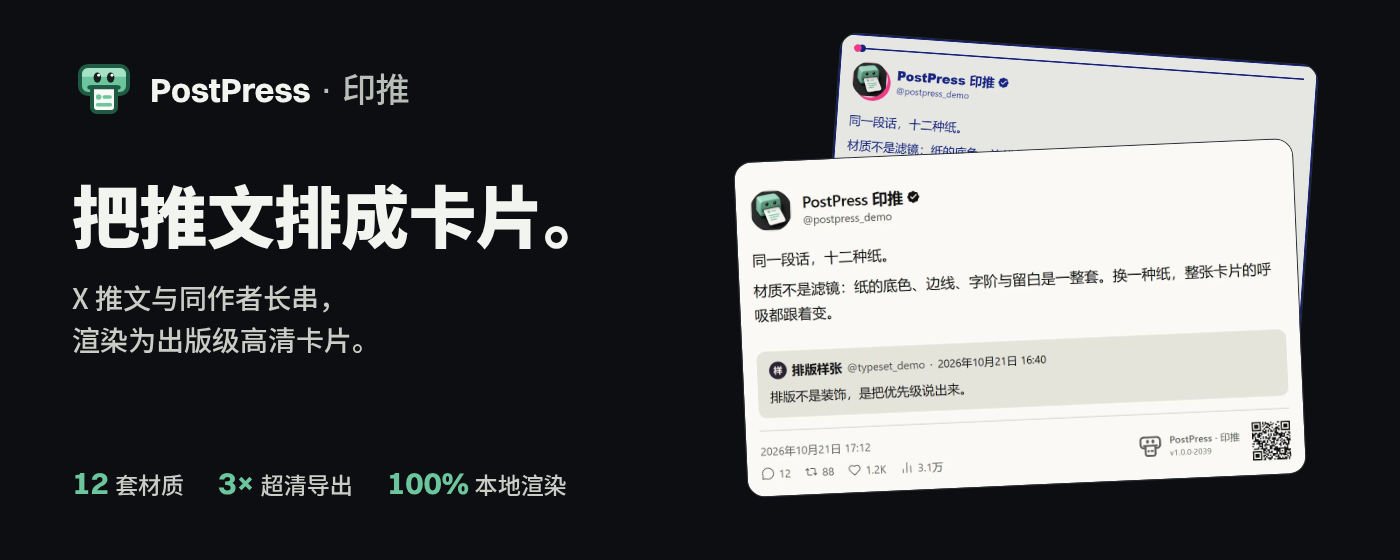
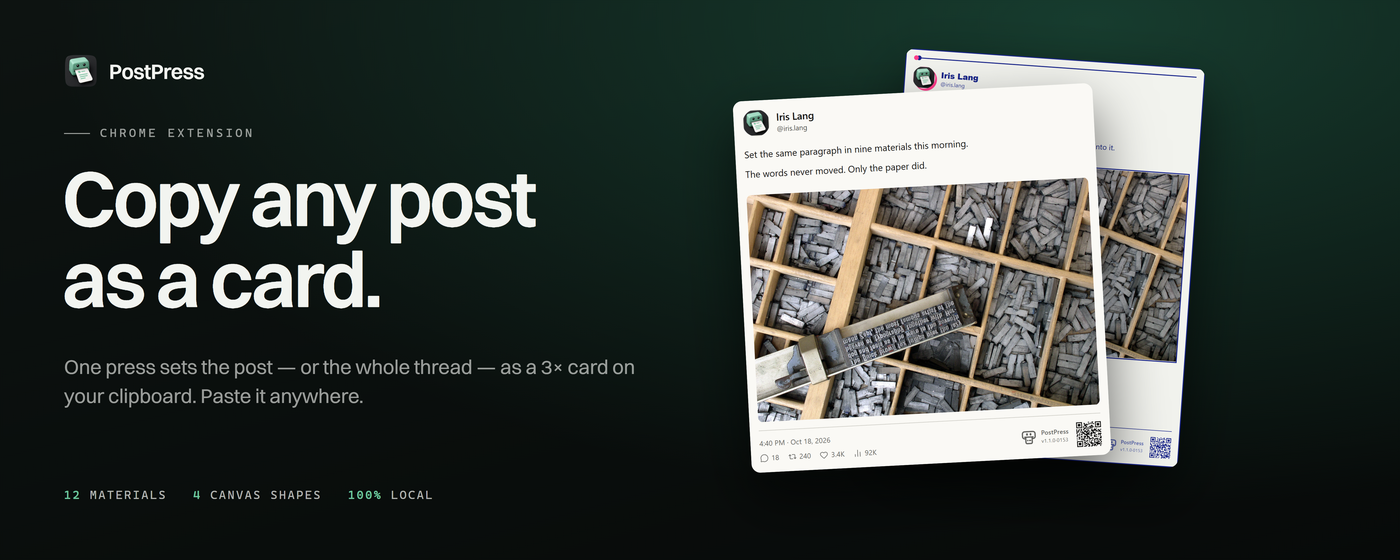
release: 1.2.0, with promo tiles that match the new claim
The two marquee tiles still said "typeset posts into cards" and carried a
v1.0.0 stamp, which contradicted the store copy we just changed. They now lead
with the same sentence as the first screenshot and drop the version stamp
entirely, since a stamp baked into artwork only ever goes stale.

Version is bumped because the manifest description changed in all 14 locales;
images and listing text alone would not need a new package.

diff --git a/CHANGELOG.md b/CHANGELOG.md
@@ -3,6 +3,13 @@
 格式遵循 [Keep a Changelog](https://keepachangelog.com/zh-CN/1.1.0/)，
 版本号遵循 [语义化版本](https://semver.org/lang/zh-CN/)。
 
+## [1.2.0] - 2026-11-11
+
+### 变更
+
+- **简介改为先说省掉的事**：14 门语言的 manifest 简介（商店「简短说明」，也是安装时显示的那行）此前都在说成品——「印刷级卡片、12 款材质、纯本地」；现在一律以「不用手拉框选截屏」开头、以「随手粘贴」收尾，和商店首图的主张对齐。最长的乌克兰语 132 字符，正好在商店上限内。
+- 门禁新增：`hygiene.10` 现在校验每个语种的简介不超过 132 字符——超长会被商店拒包，此前没有任何测试拦这个。
+
 ## [1.1.0] - 2026-11-06
 
 ### 新增

diff --git a/docs/store-checklist.md b/docs/store-checklist.md
@@ -19,7 +19,7 @@
 
 ```bash
 pnpm run build
-Compress-Archive -Path 'dist\*' -DestinationPath 'postpress-1.1.0.zip'
+Compress-Archive -Path 'dist\*' -DestinationPath 'postpress-1.2.0.zip'
 ```
 
 - `manifest.json` 必须在 zip **根目录**，不能是 `dist/manifest.json`。
